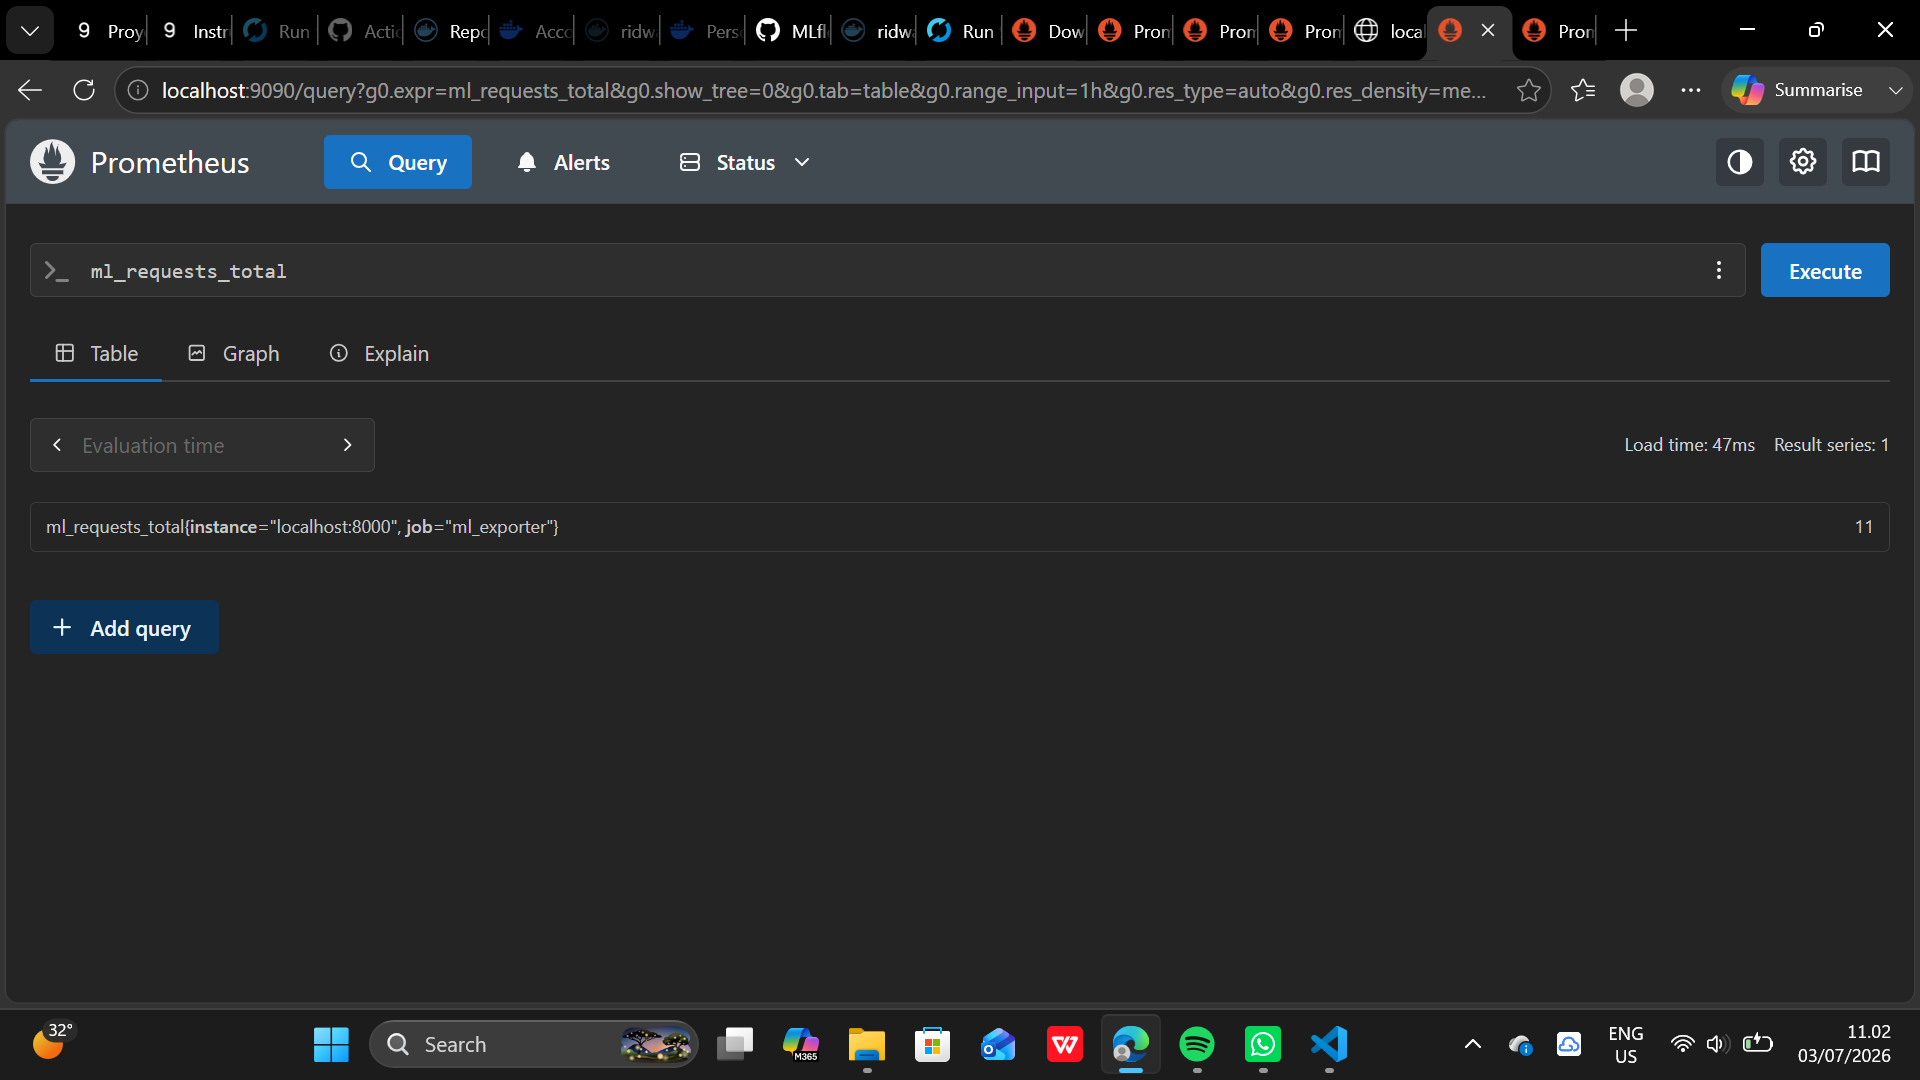
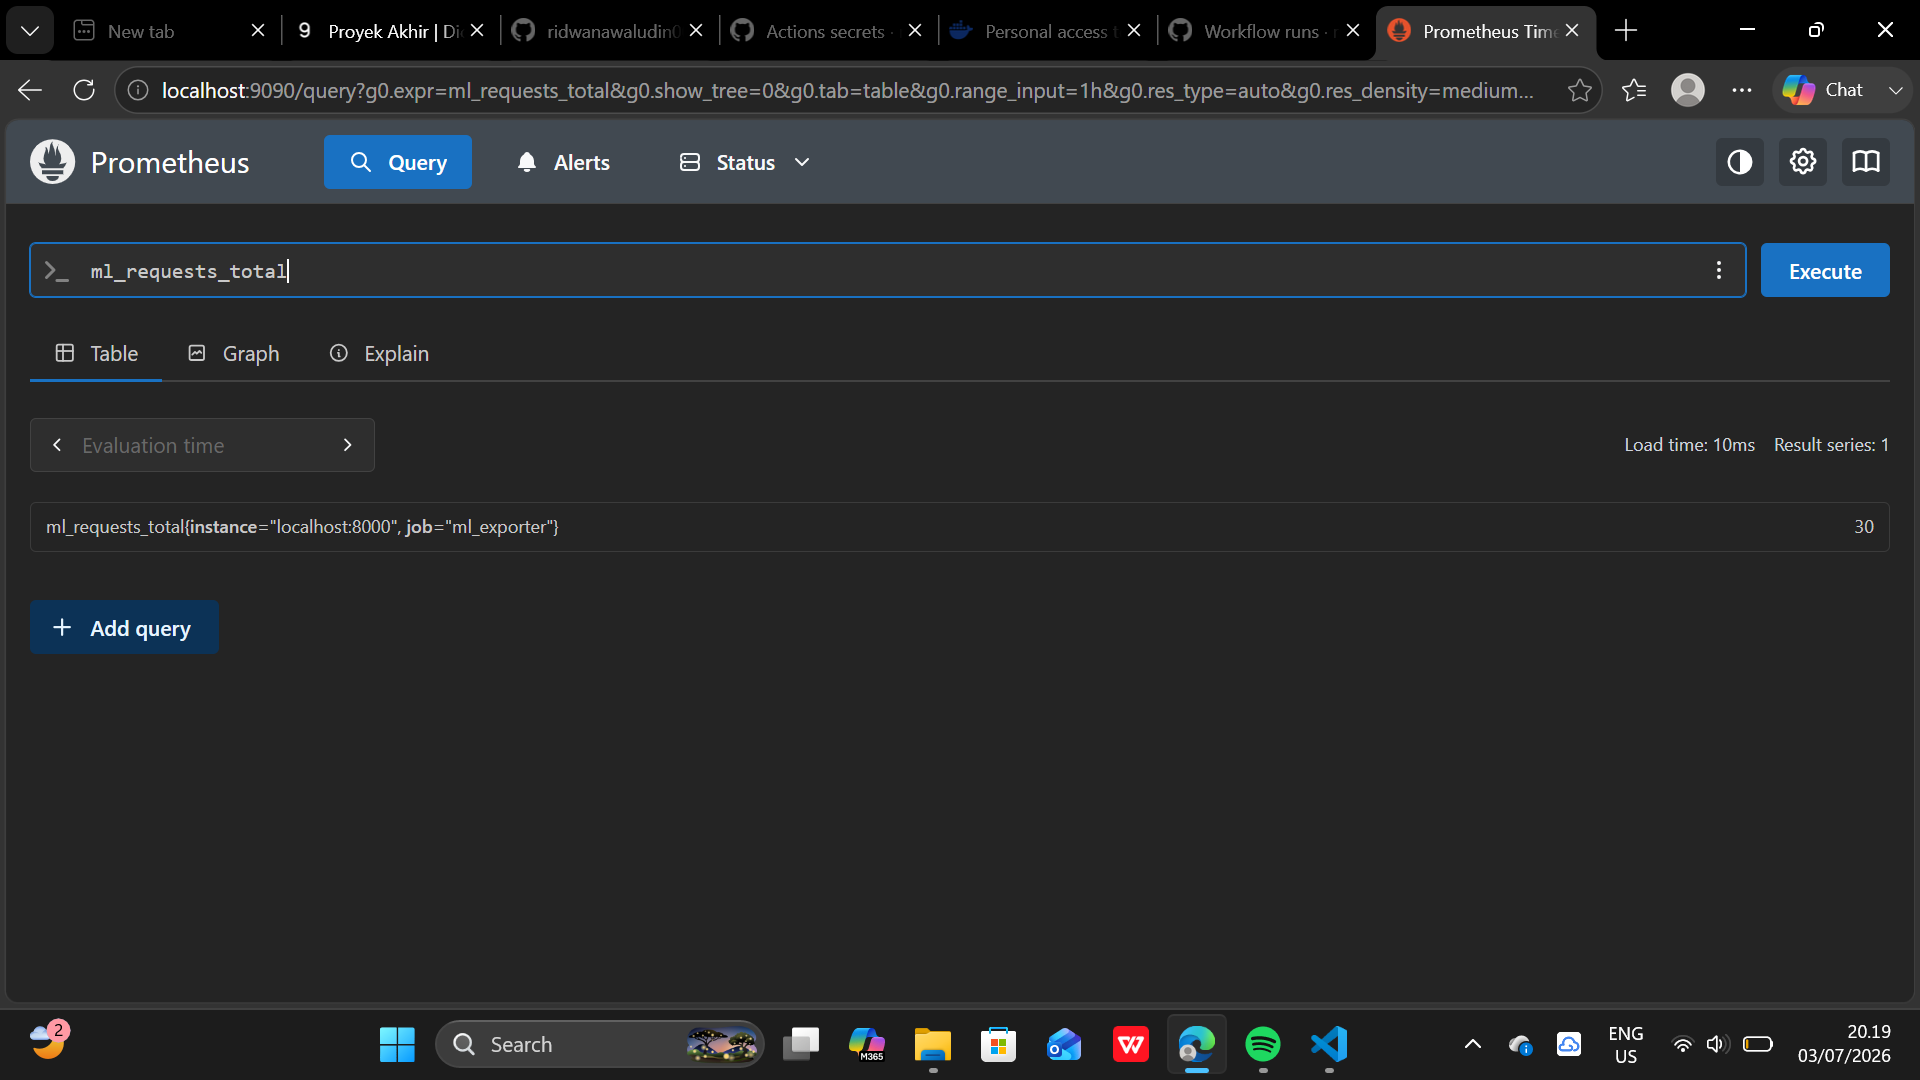
Update monitoring dengan metrics inference nyata

diff --git a/Monitoring dan Logging/3.prometheus_exporter.py b/Monitoring dan Logging/3.prometheus_exporter.py
@@ -1,25 +1,51 @@
-from prometheus_client import start_http_server, Counter, Gauge, Histogram
-import random
+from flask import Flask, request, jsonify
+from prometheus_client import start_http_server, Counter, Histogram, Gauge, generate_latest
+import requests
+import json
 import time
 
-request_counter = Counter('ml_requests_total', 'Jumlah Request')
-error_counter = Counter('ml_error_total', 'Jumlah Error')
-latency = Histogram('ml_latency_seconds', 'Waktu Prediksi')
-cpu_usage = Gauge('cpu_usage_percent', 'CPU Usage')
-memory_usage = Gauge('memory_usage_percent', 'Memory Usage')
+app = Flask(__name__)
 
-start_http_server(8000)
+REQUEST_COUNT = Counter('ml_requests_total', 'Total inference requests')
+SUCCESS_COUNT = Counter('ml_success_total', 'Total successful inference')
+ERROR_COUNT = Counter('ml_error_total', 'Total failed inference')
+LATENCY = Histogram('ml_latency_seconds', 'Inference latency in seconds')
+CONFIDENCE = Gauge('ml_confidence_score', 'Last prediction confidence score')
 
-while True:
-    request_counter.inc()
+MLFLOW_URL = "http://127.0.0.1:5001/invocations"
 
-    latency_value = random.uniform(0.1, 1.0)
-    latency.observe(latency_value)
[email redacted]('/predict', methods=['POST'])
+def predict():
+    data = request.get_json()
+    REQUEST_COUNT.inc()
 
-    if latency_value > 0.8:
-        error_counter.inc()
+    start = time.time()
+    try:
+        response = requests.post(
+            MLFLOW_URL,
+            headers={"Content-Type": "application/json"},
+            data=json.dumps({"inputs": data["inputs"]})
+        )
+        duration = time.time() - start
+        LATENCY.observe(duration)
 
-    cpu_usage.set(random.randint(20, 80))
-    memory_usage.set(random.randint(30, 70))
+        result = response.json()
+        SUCCESS_COUNT.inc()
 
-    time.sleep(5)
+        if "predictions" in result:
+            pred = result["predictions"][0]
+            CONFIDENCE.set(float(pred) if isinstance(pred, (int, float)) else 0)
+
+        return jsonify({"prediction": result, "latency": duration})
+
+    except Exception as e:
+        ERROR_COUNT.inc()
+        return jsonify({"error": str(e)}), 500
+
[email redacted]('/metrics')
+def metrics():
+    return generate_latest(), 200, {'Content-Type': 'text/plain; charset=utf-8'}
+
+if __name__ == '__main__':
+    start_http_server(8000)
+    app.run(host='0.0.0.0', port=8001)

diff --git a/Monitoring dan Logging/7.inference.py b/Monitoring dan Logging/7.inference.py
@@ -1,22 +1,15 @@
 import requests
-import json
 
-url = "http://127.0.0.1:5000/invocations"
-
-headers = {
-    "Content-Type": "application/json"
-}
+url = "http://127.0.0.1:8001/predict"
 
 data = {
     "inputs": [
-        [5.1,3.5,1.4,0.2]
+        {"sepal length (cm)": 5.1, "sepal width (cm)": 3.5, "petal length (cm)": 1.4, "petal width (cm)": 0.2},
+        {"sepal length (cm)": 6.2, "sepal width (cm)": 3.4, "petal length (cm)": 5.4, "petal width (cm)": 2.3},
+        {"sepal length (cm)": 5.9, "sepal width (cm)": 3.0, "petal length (cm)": 4.2, "petal width (cm)": 1.5}
     ]
 }
 
-response = requests.post(
-    url,
-    headers=headers,
-    data=json.dumps(data)
-)
-
-print(response.json())
+for i in range(10):
+    response = requests.post(url, json=data)
+    print(response.json())